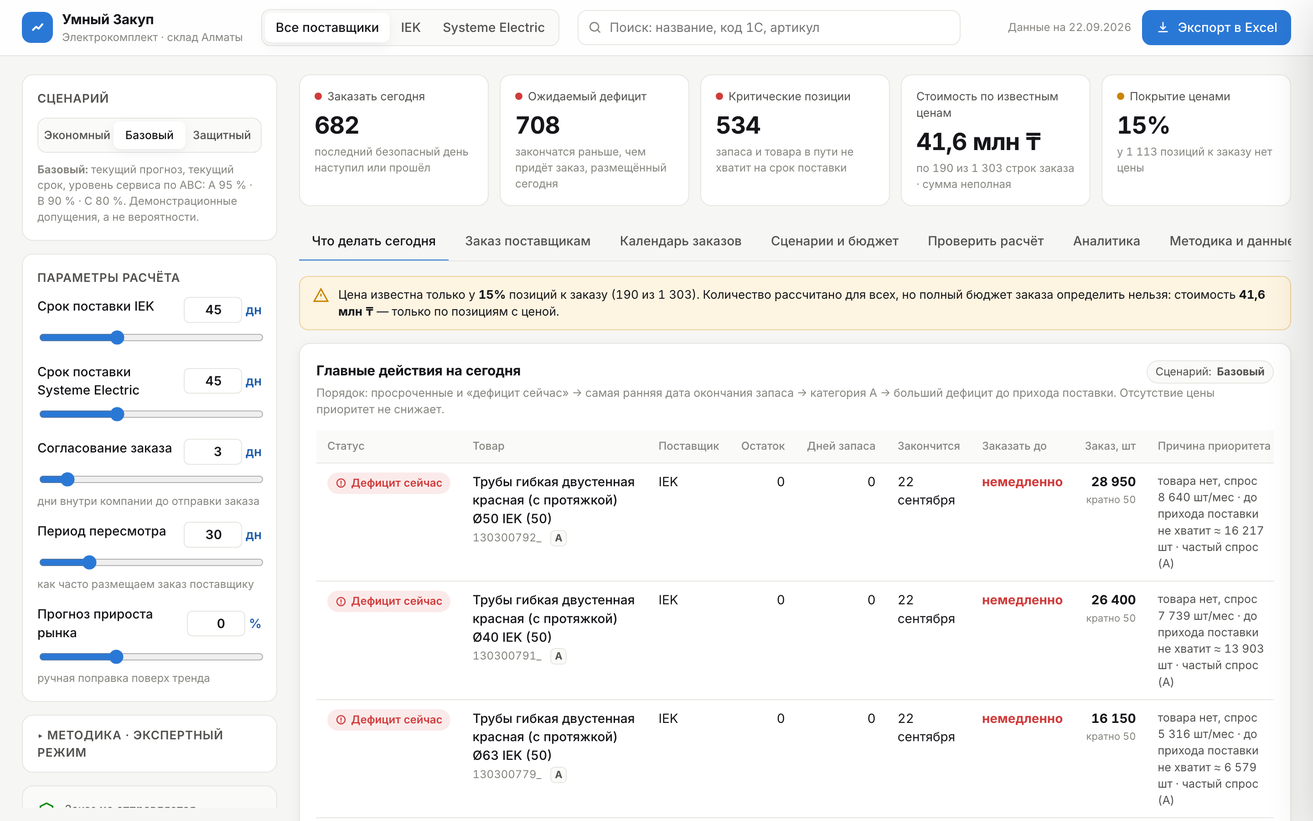
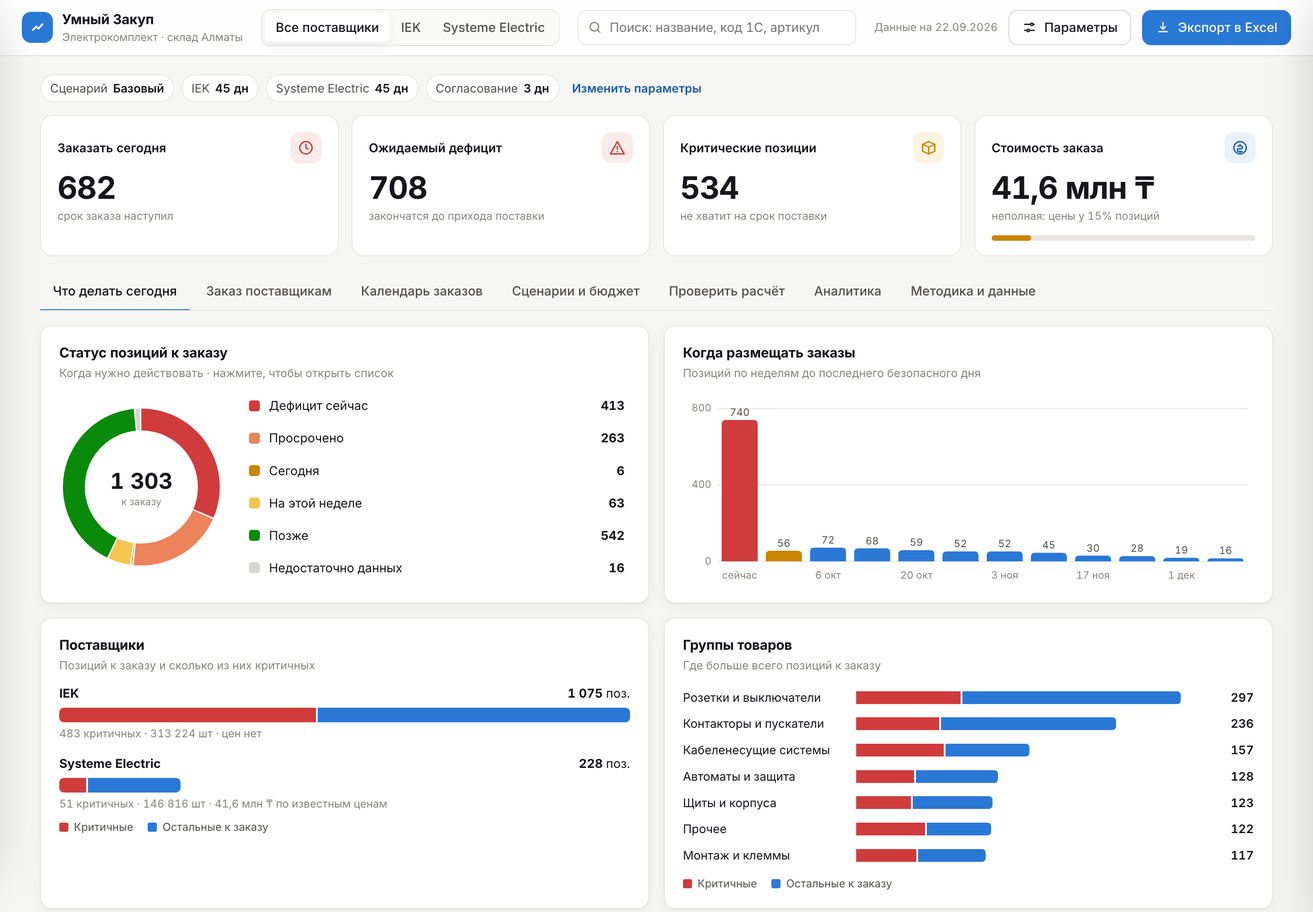
Dashboard redesign: slide-out parameters, 4 KPI cards, status donut, weekly orders, suppliers and groups charts

diff --git a/web/app.js b/web/app.js
@@ -176,6 +176,12 @@
   }
 
   // ---------------- KPIs ----------------
+  const ICON = {
+    clock: '<circle cx="12" cy="12" r="9"/><path d="M12 7v5l3 2"/>',
+    alert: '<path d="M12 3l10 18H2z"/><path d="M12 10v4M12 17.5v.5"/>',
+    box: '<path d="M3 7l9-4 9 4v10l-9 4-9-4z"/><path d="M3 7l9 4 9-4M12 11v10"/>',
+    coin: '<circle cx="12" cy="12" r="9"/><path d="M9 9.5h4.5a2 2 0 010 4H10a2 2 0 000 4H15M12 7v2M12 17.5V19"/>',
+  };
   function renderKpis() {
     const base = baseRows();
     const today = base.filter(Engine.isOrderToday);
@@ -183,23 +189,32 @@
     const crit = base.filter((x) => x.r.urgency === "critical");
     const cov = Engine.priceCoverage(base);
     const cards = [
-      { label: "Заказать сегодня", dot: "var(--crit)", value: fmt(today.length), sub: "последний безопасный день наступил или прошёл", act: () => setFilter({ urg: "all", st: "all", win: "now", onlyOrder: true, sort: "action" }) },
-      { label: "Ожидаемый дефицит", dot: "var(--crit)", value: fmt(deficit.length), sub: "закончатся раньше, чем придёт заказ, размещённый сегодня", act: () => setFilter({ urg: "all", st: "all", win: null, onlyOrder: false, sort: "action", deficitOnly: true }) },
-      { label: "Критические позиции", dot: "var(--crit)", value: fmt(crit.length), sub: "запаса и товара в пути не хватит на срок поставки", act: () => setFilter({ urg: "critical", st: "all", win: null, onlyOrder: true }) },
-      { label: "Стоимость по известным ценам", value: cov.priced ? money(cov.value) : "Нет данных", sub: `по ${fmt(cov.priced)} из ${fmt(cov.lines)} строк заказа · сумма неполная`, warn: cov.missing > 0 },
-      { label: "Покрытие ценами", dot: cov.share != null && cov.share < 0.5 ? "var(--warn)" : null, value: pct(cov.share), sub: `у ${fmt(cov.missing)} позиций к заказу нет цены`, act: () => switchTab("method") },
+      { label: "Заказать сегодня", tone: "crit", ico: "clock", value: fmt(today.length), sub: "срок заказа наступил", act: () => setFilter({ urg: "all", st: "all", win: "now", onlyOrder: true, sort: "action" }) },
+      { label: "Ожидаемый дефицит", tone: "crit", ico: "alert", value: fmt(deficit.length), sub: "закончатся до прихода поставки", act: () => setFilter({ urg: "all", st: "all", win: null, onlyOrder: false, sort: "action", deficitOnly: true }) },
+      { label: "Критические позиции", tone: "warn", ico: "box", value: fmt(crit.length), sub: "не хватит на срок поставки", act: () => setFilter({ urg: "critical", st: "all", win: null, onlyOrder: true }) },
+      { label: "Стоимость заказа", tone: "plan", ico: "coin", value: cov.priced ? money(cov.value) : "Нет данных", sub: `неполная: цены у ${pct(cov.share)} позиций`, bar: cov.share, act: () => switchTab("method") },
     ];
     $("#kpis").innerHTML = cards.map((c, i) => `
-      <div class="kpi ${c.act ? "clickable" : ""}" data-i="${i}" ${c.act ? 'tabindex="0" role="button"' : ""}>
-        <div class="k-label">${c.dot ? `<span class="dot" style="background:${c.dot}"></span>` : ""}${c.label}</div>
+      <div class="kpi t-${c.tone} clickable" data-i="${i}" tabindex="0" role="button">
+        <div class="k-top"><div class="k-label">${c.label}</div><div class="k-ico"><svg viewBox="0 0 24 24">${ICON[c.ico]}</svg></div></div>
         <div class="k-value num">${c.value}</div>
         <div class="k-sub">${c.sub}</div>
+        ${c.bar != null ? `<div class="k-bar" title="Покрытие ценами"><i style="width:${Math.round(c.bar * 100)}%"></i></div>` : ""}
       </div>`).join("");
-    $$("#kpis .kpi.clickable").forEach((el) => {
+    $$("#kpis .kpi").forEach((el) => {
       el.addEventListener("click", () => cards[+el.dataset.i].act());
       el.addEventListener("keydown", (e) => { if (e.key === "Enter" || e.key === " ") { e.preventDefault(); cards[+el.dataset.i].act(); } });
     });
+    const p = state.p;
+    $("#ctx").innerHTML = `<span class="c-item">Сценарий <b>${SCN[p.scenario].label}</b></span>
+      ${Object.entries(REAL_SUPS).map(([k, v]) => `<span class="c-item">${esc(v.name)} <b>${fmt(Math.round(p.lead[k] * 30))} дн</b></span>`).join("")}
+      <span class="c-item">Согласование <b>${p.buffer} дн</b></span>
+      ${p.growth ? `<span class="c-item">Прирост <b>${p.growth > 0 ? "+" : ""}${Math.round(p.growth * 100)}%</b></span>` : ""}
+      <button class="c-edit" id="ctxEdit">Изменить параметры</button>`;
+    $("#ctxEdit").onclick = openParams;
   }
+  function openParams() { $("#params").classList.add("open"); $("#paramsScrim").hidden = false; }
+  function closeParams() { $("#params").classList.remove("open"); $("#paramsScrim").hidden = true; }
 
   // ---------------- «Что делать сегодня» ----------------
   function reasonText(x) {
@@ -214,43 +229,94 @@
     if (r.transitNoEta) parts.push(`${fmt(r.transitNoEta)} шт в пути без даты`);
     return parts.join(" · ");
   }
+  const ST_COLOR = { now: "var(--crit)", overdue: "#ec835a", today: "var(--warn)", week: "#f5c451", later: "var(--good)", nodata: "var(--line-strong)" };
+  function donut(parts, total) {
+    const R = 86, r = 62, C = 90;
+    let a0 = -Math.PI / 2, out = "";
+    parts.filter((p) => p.v > 0).forEach((p) => {
+      const a1 = a0 + (p.v / total) * Math.PI * 2 - 0.02;
+      const large = a1 - a0 > Math.PI ? 1 : 0;
+      const pt = (rad, a) => `${(C + rad * Math.cos(a)).toFixed(2)},${(C + rad * Math.sin(a)).toFixed(2)}`;
+      out += `<path d="M${pt(R, a0)} A${R},${R} 0 ${large} 1 ${pt(R, a1)} L${pt(r, a1)} A${r},${r} 0 ${large} 0 ${pt(r, a0)} Z" fill="${p.c}" class="hit2" data-tip="${esc(`<b>${p.l}</b><br>${fmt(p.v)} позиций`)}"/>`;
+      a0 = a1 + 0.02;
+    });
+    return `<svg viewBox="0 0 180 180" role="img" aria-label="Статусы позиций к заказу">${out}
+      <text x="90" y="92" text-anchor="middle" font-size="24" font-weight="700" fill="var(--text)">${fmt(total)}</text>
+      <text x="90" y="110" text-anchor="middle" font-size="11" fill="var(--text-3)">к заказу</text></svg>`;
+  }
+  function weekBars(list) {
+    const weeks = 12, counts = new Array(weeks).fill(0);
+    list.forEach((x) => { const d = Math.max(0, x.r.safeDay); const w = Math.floor(d / 7); if (w < weeks) counts[w]++; });
+    const W = 560, H = 190, pl = 34, pb = 24, pt = 16, iw = W - pl - 6, ih = H - pb - pt, bw = iw / weeks;
+    const nice = niceMax(Math.max(1, ...counts));
+    let svg = `<svg viewBox="0 0 ${W} ${H}" role="img" aria-label="Сколько заказов разместить по неделям">`;
+    [0, 0.5, 1].forEach((f) => { const yy = pt + ih - f * ih; svg += `<line x1="${pl}" x2="${W - 6}" y1="${yy}" y2="${yy}" stroke="var(--line)"/><text x="${pl - 6}" y="${yy + 3}" text-anchor="end" font-size="10" fill="var(--text-3)">${fmt(nice * f)}</text>`; });
+    counts.forEach((c, i) => {
+      const h = (c / nice) * ih, xx = pl + i * bw + 4, yy = pt + ih - h;
+      if (c) svg += `<path d="${roundTop(xx, yy, bw - 8, h, 4)}" fill="${i === 0 ? "var(--crit)" : i === 1 ? "var(--warn)" : "var(--series-1)"}"/><text x="${xx + (bw - 8) / 2}" y="${yy - 4}" text-anchor="middle" font-size="10" fill="var(--text-2)">${fmt(c)}</text>`;
+      svg += `<rect class="hit" x="${pl + i * bw}" y="${pt}" width="${bw}" height="${ih}" fill="transparent" data-tip="${esc(`<b>${i === 0 ? "Сейчас (срок наступил или наступает на этой неделе)" : `Неделя с ${dayDate(i * 7)}`}</b><br>${fmt(c)} позиций`)}"/>`;
+      if (i % 2 === 0) svg += `<text x="${pl + i * bw + bw / 2}" y="${H - 7}" text-anchor="middle" font-size="10" fill="var(--text-3)">${i === 0 ? "сейчас" : dayDate(i * 7)}</text>`;
+    });
+    return svg + "</svg>";
+  }
   function renderToday() {
     const base = baseRows();
-    const cov = Engine.priceCoverage(base);
-    const acts = base.filter((x) => x.final > 0 && ST[x.r.status].rank <= 3).sort(Engine.actionCompare);
+    const orders = base.filter((x) => x.final > 0);
+    const acts = orders.filter((x) => ST[x.r.status].rank <= 3).sort(Engine.actionCompare);
     const top = acts.slice(0, 10);
-    const sc = SCN[state.p.scenario];
-    const warn = cov.missing ? `<div class="banner"><svg viewBox="0 0 24 24"><path d="M12 3l10 18H2z"/><path d="M12 10v4M12 17.5v.5"/></svg>
-      <div>Цена известна только у <b>${pct(cov.share)}</b> позиций к заказу (${fmt(cov.priced)} из ${fmt(cov.lines)}). Количество рассчитано для всех, но полный бюджет заказа определить нельзя: стоимость <b>${cov.priced ? money(cov.value) : "—"}</b> — только по позициям с ценой.</div></div>` : "";
-    $("#tab-today").innerHTML = `${warn}
-      <div class="card">
-        <div style="display:flex;flex-wrap:wrap;gap:10px;justify-content:space-between;align-items:baseline">
-          <h3>Главные действия на сегодня</h3>
-          <span class="scen-tag">Сценарий: <b>${sc.label}</b></span>
-        </div>
-        <p class="c-desc">Порядок: просроченные и «дефицит сейчас» → самая ранняя дата окончания запаса → категория A → больший дефицит до прихода поставки. Отсутствие цены приоритет не снижает.</p>
-        ${top.length ? `<div class="table-wrap"><table class="actions-table">
-          <thead><tr><th>Статус</th><th>Товар</th><th class="hide-md">Поставщик</th><th class="r">Остаток</th><th class="r hide-md">Дней запаса</th><th>Закончится</th><th>Заказать до</th><th class="r">Заказ, шт</th><th class="hide-sm">Причина приоритета</th></tr></thead>
+    // 1. статусы
+    const order = ["now", "overdue", "today", "week", "later", "nodata"];
+    const parts = order.map((k) => ({ k, l: ST[k].label, v: orders.filter((x) => x.r.status === k).length, c: ST_COLOR[k] }));
+    // 2. поставщики
+    const supRows = Object.keys(REAL_SUPS).filter((k) => state.sup === "all" || k === state.sup).map((k) => {
+      const l = orders.filter((x) => x.s.sup === k);
+      const crit = l.filter((x) => x.r.urgency === "critical").length;
+      const cov = Engine.priceCoverage(l);
+      return { k, n: l.length, crit, units: l.reduce((a, x) => a + x.final, 0), cov };
+    });
+    const supMax = Math.max(1, ...supRows.map((x) => x.n));
+    // 3. группы
+    const groups = {};
+    orders.forEach((x) => { const g = (groups[x.s.g] ||= { crit: 0, other: 0 }); x.r.urgency === "critical" ? g.crit++ : g.other++; });
+    const gl = Object.entries(groups).sort((a, b) => b[1].crit + b[1].other - (a[1].crit + a[1].other)).slice(0, 7);
+    const gmax = Math.max(1, ...gl.map(([, g]) => g.crit + g.other));
+    const legendCrit = `<div class="legend"><span><i style="width:10px;height:10px;background:var(--crit);border-radius:2px"></i>Критичные</span><span><i style="width:10px;height:10px;background:var(--series-1);border-radius:2px"></i>Остальные к заказу</span></div>`;
+    $("#tab-today").innerHTML = `<div class="dash">
+      <div class="card"><h3>Статус позиций к заказу</h3><p class="c-desc">Когда нужно действовать · нажмите, чтобы открыть список</p>
+        <div class="donut-wrap">${donut(parts, orders.length || 1)}
+          <div class="dlegend">${parts.map((p) => `<button data-st="${p.k}"><i style="background:${p.c}"></i><span>${p.l}</span><b>${fmt(p.v)}</b></button>`).join("")}</div>
+        </div></div>
+      <div class="card"><h3>Когда размещать заказы</h3><p class="c-desc">Позиций по неделям до последнего безопасного дня</p>
+        <div class="chart">${weekBars(orders.filter((x) => x.r.safeDay != null))}</div></div>
+      <div class="card"><h3>Поставщики</h3><p class="c-desc">Позиций к заказу и сколько из них критичных</p>
+        <div class="sup-bars">${supRows.map((x) => `<div class="sup-bar" data-tip="${esc(`<b>${REAL_SUPS[x.k].name}</b><br>К заказу: ${fmt(x.n)}<br>Критичных: ${fmt(x.crit)}<br>Штук: ${fmt(x.units)}`)}">
+          <div class="sb-top"><b>${esc(REAL_SUPS[x.k].name)}</b><span class="num"><b>${fmt(x.n)}</b> поз.</span></div>
+          <div class="sb-track" style="width:${Math.max(4, (x.n / supMax) * 100)}%"><i style="width:${x.n ? (x.crit / x.n) * 100 : 0}%;background:var(--crit)"></i><i style="flex:1;background:var(--series-1)"></i></div>
+          <div class="sb-sub">${fmt(x.crit)} критичных · ${fmt(x.units)} шт · ${x.cov.priced ? `${money(x.cov.value)} по известным ценам` : "цен нет"}</div></div>`).join("")}</div>
+        ${legendCrit}</div>
+      <div class="card"><h3>Группы товаров</h3><p class="c-desc">Где больше всего позиций к заказу</p>
+        ${gl.map(([name, g]) => `<div class="hbar" data-tip="${esc(`<b>${name}</b><br>Критичных: ${g.crit}<br>Остальных: ${g.other}`)}"><span>${esc(name)}</span>
+          <div class="track">${g.crit ? `<i style="width:${(g.crit / gmax) * 100}%;background:var(--crit)"></i>` : ""}${g.other ? `<i style="width:${(g.other / gmax) * 100}%;background:var(--series-1)"></i>` : ""}</div>
+          <span class="v">${fmt(g.crit + g.other)}</span></div>`).join("")}
+        ${legendCrit}</div>
+      <div class="card wide"><div style="display:flex;justify-content:space-between;gap:10px;flex-wrap:wrap;align-items:baseline"><h3>10 главных действий</h3><button class="btn sm" id="allActs">Все действия · ${fmt(acts.length)}</button></div>
+        <p class="c-desc">Сначала просроченные и «дефицит сейчас», затем по дате окончания запаса</p>
+        ${top.length ? `<div class="table-wrap"><table class="acts">
+          <thead><tr><th>Статус</th><th>Товар</th><th class="r">Остаток</th><th>Закончится</th><th>Заказать до</th><th class="r">Заказ, шт</th></tr></thead>
           <tbody>${top.map((x) => `<tr data-id="${esc(x.s.id)}" tabindex="0">
             <td>${statusPill(x.r.status)}</td>
-            <td><div class="p-name">${esc(x.s.n)}</div><div class="p-meta"><span>${esc(x.s.id)}</span><span class="abc">${x.s.abc}</span></div></td>
-            <td class="hide-md">${esc(SUPS[x.s.sup].name)}</td>
+            <td><div class="p-name">${esc(x.s.n)}</div><div class="why">${esc(SUPS[x.s.sup].name)} · ${x.r.status === "now" ? "товара нет" : x.r.status === "overdue" ? `срок прошёл ${fmt(-x.r.safeDay)} дн назад` : ST[x.r.status].label.toLowerCase()}${x.r.expectedDeficit && x.r.deficitLead >= 1 ? ` · до прихода не хватит ≈ ${fmt(x.r.deficitLead)} шт` : ""}</div></td>
             <td class="r num">${fmt(x.r.stock)}</td>
-            <td class="r num hide-md">${x.r.stockoutDay == null ? "> 180" : fmt(x.r.stockoutDay)}</td>
             <td class="num">${fDay(x.r.stockoutDay)}</td>
             <td class="num"><b>${x.r.safeDay == null ? NA : x.r.status === "now" ? '<span style="color:var(--crit)">немедленно</span>' : x.r.safeDay < 0 ? `<span style="color:var(--crit)">просрочено ${fmt(-x.r.safeDay)} дн</span>` : x.r.safeDay === 0 ? "сегодня" : Engine.fmtDay(x.r.safeDay)}</b></td>
-            <td class="r num"><b>${fmt(x.final)}</b>${x.r.moq > 1 ? `<div class="rec-hint">кратно ${fmt(x.r.moq)}</div>` : ""}</td>
-            <td class="reason hide-sm">${esc(reasonText(x))}</td>
-          </tr>`).join("")}</tbody></table></div>
-          <div style="display:flex;gap:10px;flex-wrap:wrap;margin-top:14px">
-            <button class="btn primary" id="allActs">Все действия (${fmt(acts.length)})</button>
-            <button class="btn" id="goCal">Календарь заказов</button>
-          </div>`
-        : `<div class="empty">Срочных действий нет: по всем позициям безопасный день заказа дальше чем через неделю.</div>`}
-      </div>`;
+            <td class="r num"><b>${fmt(x.final)}</b></td>
+          </tr>`).join("")}</tbody></table></div>` : `<div class="empty">Срочных действий нет.</div>`}
+      </div></div>`;
     bindRows($("#tab-today"));
+    bindTips($("#tab-today"));
+    $$("#tab-today .hit2").forEach((h) => { h.addEventListener("mousemove", (e) => { const t = $("#tip"); t.innerHTML = h.dataset.tip; t.hidden = false; t.style.left = e.clientX + 14 + "px"; t.style.top = e.clientY + 14 + "px"; }); h.addEventListener("mouseleave", () => ($("#tip").hidden = true)); });
+    $$("#tab-today [data-st]").forEach((b) => (b.onclick = () => setFilter({ urg: "all", st: b.dataset.st, win: null, onlyOrder: true, sort: "action" })));
     $("#allActs")?.addEventListener("click", () => setFilter({ urg: "all", st: "all", win: null, onlyOrder: true, sort: "action" }));
-    $("#goCal")?.addEventListener("click", () => switchTab("calendar"));
   }
   function bindRows(root) {
     $$("tr[data-id]", root).forEach((tr) => {
@@ -1434,9 +1500,11 @@
     $("#onlyOrder").addEventListener("change", (e) => { state.onlyOrder = e.target.checked; if (state.onlyOrder && state.urg === "ok") state.urg = "all"; render(); });
     $$(".tab").forEach((b) => b.addEventListener("click", () => switchTab(b.dataset.tab)));
     $("#exportBtn").addEventListener("click", () => { exportXlsx(); toast("Excel сформирован. Поставщику ничего не отправлено"); });
-    $("#paramsToggle").addEventListener("click", () => $("#params").classList.toggle("open"));
+    $("#paramsToggle").addEventListener("click", openParams);
+    $("#paramsClose").addEventListener("click", closeParams);
+    $("#paramsScrim").addEventListener("click", closeParams);
     $("#scrim").addEventListener("click", closeDrawer);
-    document.addEventListener("keydown", (e) => { if (e.key === "Escape") { closeDrawer(); $("#modal").hidden = true; } });
+    document.addEventListener("keydown", (e) => { if (e.key === "Escape") { closeDrawer(); closeParams(); $("#modal").hidden = true; } });
     render();
     // прямые ссылки: #tab=analytics, #sku=<код 1С>
     const h = new URLSearchParams(location.hash.slice(1));

diff --git a/web/styles.css b/web/styles.css
@@ -288,6 +288,53 @@ tr[tabindex]:focus-visible, .kpi[tabindex]:focus-visible, .cal-item:focus-visibl
 .d-sec h4 small { font-weight: 400; text-transform: none; letter-spacing: 0; color: var(--text-3); }
 @media (max-width: 1100px) { .sb-grid { grid-template-columns: 1fr; } .sb-result { position: static; } }
 
+/* ---------- дашборд ---------- */
+.layout { grid-template-columns: minmax(0, 1fr) !important; max-width: 1400px; }
+.params { position: fixed !important; top: 0; left: 0; bottom: 0; width: min(360px, 92vw); max-height: none !important; z-index: 55; background: var(--bg);
+  padding: calc(14px + env(safe-area-inset-top, 0px)) 16px 24px; overflow-y: auto; transform: translateX(-102%); transition: transform .22s cubic-bezier(.2,.8,.2,1);
+  display: flex !important; box-shadow: var(--shadow-lg); }
+.params.open { transform: none; }
+.params-head { display: flex; align-items: center; justify-content: space-between; font-size: 16px; padding: 2px 2px 4px; }
+.ctx { display: flex; flex-wrap: wrap; align-items: center; gap: 8px; margin-bottom: 14px; font-size: 13px; color: var(--text-2); }
+.ctx .c-item { display: inline-flex; align-items: center; gap: 6px; background: var(--surface); border: 1px solid var(--line); padding: 5px 10px; border-radius: 999px; }
+.ctx .c-item b { color: var(--text); font-weight: 600; }
+.ctx .c-edit { border: 0; background: none; color: var(--accent-ink); font-weight: 600; cursor: pointer; padding: 5px 6px; }
+.kpis { grid-template-columns: repeat(4, minmax(0, 1fr)) !important; gap: 14px !important; }
+.kpi { padding: 18px 18px 16px !important; display: flex; flex-direction: column; gap: 2px; border-radius: 14px !important; }
+.kpi .k-top { display: flex; align-items: center; justify-content: space-between; gap: 8px; }
+.kpi .k-ico { width: 34px; height: 34px; border-radius: 10px; display: grid; place-items: center; flex: none; }
+.kpi .k-ico svg { width: 18px; height: 18px; fill: none; stroke: currentColor; stroke-width: 2; stroke-linecap: round; stroke-linejoin: round; }
+.kpi .k-value { font-size: 34px !important; line-height: 1.1; margin-top: 6px !important; }
+.kpi .k-label { font-size: 13.5px !important; color: var(--text) !important; font-weight: 600; }
+.kpi .k-sub { font-size: 12px !important; }
+.kpi.t-crit .k-ico { background: var(--crit-soft); color: var(--crit); }
+.kpi.t-warn .k-ico { background: var(--warn-soft); color: var(--warn); }
+.kpi.t-plan .k-ico { background: var(--accent-soft); color: var(--accent-ink); }
+.kpi .k-bar { height: 6px; border-radius: 3px; background: var(--line); margin-top: 10px; overflow: hidden; }
+.kpi .k-bar i { display: block; height: 100%; background: var(--warn); border-radius: 3px; }
+.dash { display: grid; grid-template-columns: repeat(2, minmax(0, 1fr)); gap: 16px; }
+.dash .card { padding: 18px 20px; }
+.dash .card h3 { font-size: 15px; margin: 0 0 2px; }
+.dash .card .c-desc { margin: 0 0 12px; }
+.dash .wide { grid-column: 1 / -1; }
+.donut-wrap { display: flex; align-items: center; gap: 22px; flex-wrap: wrap; }
+.donut-wrap svg { width: 180px; height: 180px; flex: none; }
+.dlegend { display: grid; gap: 6px; flex: 1; min-width: 190px; }
+.dlegend button { display: grid; grid-template-columns: 12px 1fr auto; align-items: center; gap: 10px; border: 0; background: none; text-align: left; padding: 5px 6px; border-radius: 8px; cursor: pointer; font-size: 13.5px; color: var(--text); }
+.dlegend button:hover { background: var(--surface-2); }
+.dlegend i { width: 12px; height: 12px; border-radius: 3px; }
+.dlegend b { font-variant-numeric: tabular-nums; }
+.sup-bars { display: grid; gap: 14px; }
+.sup-bar .sb-top { display: flex; justify-content: space-between; font-size: 13.5px; margin-bottom: 6px; }
+.sup-bar .sb-track { display: flex; height: 16px; border-radius: 5px; overflow: hidden; background: var(--surface-2); gap: 2px; }
+.sup-bar .sb-track i { display: block; height: 100%; }
+.sup-bar .sb-sub { font-size: 12px; color: var(--text-3); margin-top: 4px; }
+.acts td { padding-top: 12px; padding-bottom: 12px; }
+.acts .p-name { font-weight: 600; }
+.acts .why { margin-top: 3px; }
+@media (max-width: 1000px) { .kpis { grid-template-columns: repeat(2, minmax(0, 1fr)) !important; } .dash { grid-template-columns: 1fr; } }
+@media (max-width: 600px) { .kpi .k-value { font-size: 28px !important; } }
+
 /* ---------- drawer ---------- */
 .scrim { position: fixed; inset: 0; background: rgba(10, 10, 15, .32); z-index: 40; animation: fade .15s; }
 .drawer { position: fixed; top: 0; right: 0; bottom: 0; width: min(760px, 100vw); background: var(--surface); z-index: 50; box-shadow: var(--shadow-lg); transform: translateX(100%); transition: transform .22s cubic-bezier(.2,.8,.2,1); overflow-y: auto; outline: none; }

diff --git a/web/index.html b/web/index.html
@@ -32,7 +32,7 @@
   <div class="top-actions">
     <span class="asof" id="asof"></span>
     <span class="net" id="net" hidden title="Нет подключения к интернету: сервис работает на сохранённой копии">Офлайн</span>
-    <button class="btn ghost only-mobile" id="paramsToggle">Параметры</button>
+    <button class="btn" id="paramsToggle"><svg viewBox="0 0 24 24" aria-hidden="true"><path d="M4 7h10M18 7h2M4 17h4M12 17h8"/><circle cx="16" cy="7" r="2"/><circle cx="10" cy="17" r="2"/></svg><span class="lbl">Параметры</span></button>
     <button class="btn primary" id="exportBtn">
       <svg viewBox="0 0 24 24" aria-hidden="true"><path d="M12 4v11m0 0l-4-4m4 4l4-4M5 19h14"/></svg>
       <span class="lbl">Экспорт в Excel</span>
@@ -41,14 +41,15 @@
 </header>
 
 <div class="layout">
-  <aside class="params" id="params">
+  <aside class="params" id="params" aria-label="Параметры расчёта">
+    <div class="params-head"><b>Параметры расчёта</b><button class="d-close" id="paramsClose" aria-label="Закрыть параметры"><svg viewBox="0 0 24 24"><path d="M6 6l12 12M18 6L6 18"/></svg></button></div>
     <section>
       <h3>Сценарий</h3>
       <div class="seg seg-full" id="scenSeg" role="radiogroup" aria-label="Сценарий"></div>
       <p class="hint scen-note" id="scenNote"></p>
     </section>
     <section>
-      <h3>Параметры расчёта</h3>
+      <h3>Сроки и прогноз</h3>
       <div class="field" id="leadFields"></div>
       <div class="field">
         <label for="bufferNum">Согласование заказа <span class="numin"><input type="number" id="bufferNum" min="0" max="60" step="1" inputmode="numeric"> дн</span></label>
@@ -77,7 +78,9 @@
     </section>
   </aside>
 
+  <div class="scrim" id="paramsScrim" hidden></div>
   <main>
+    <div class="ctx" id="ctx"></div>
     <div class="kpis" id="kpis"></div>
     <nav class="tabs" role="tablist">
       <button class="tab active" data-tab="today">Что делать сегодня</button>
